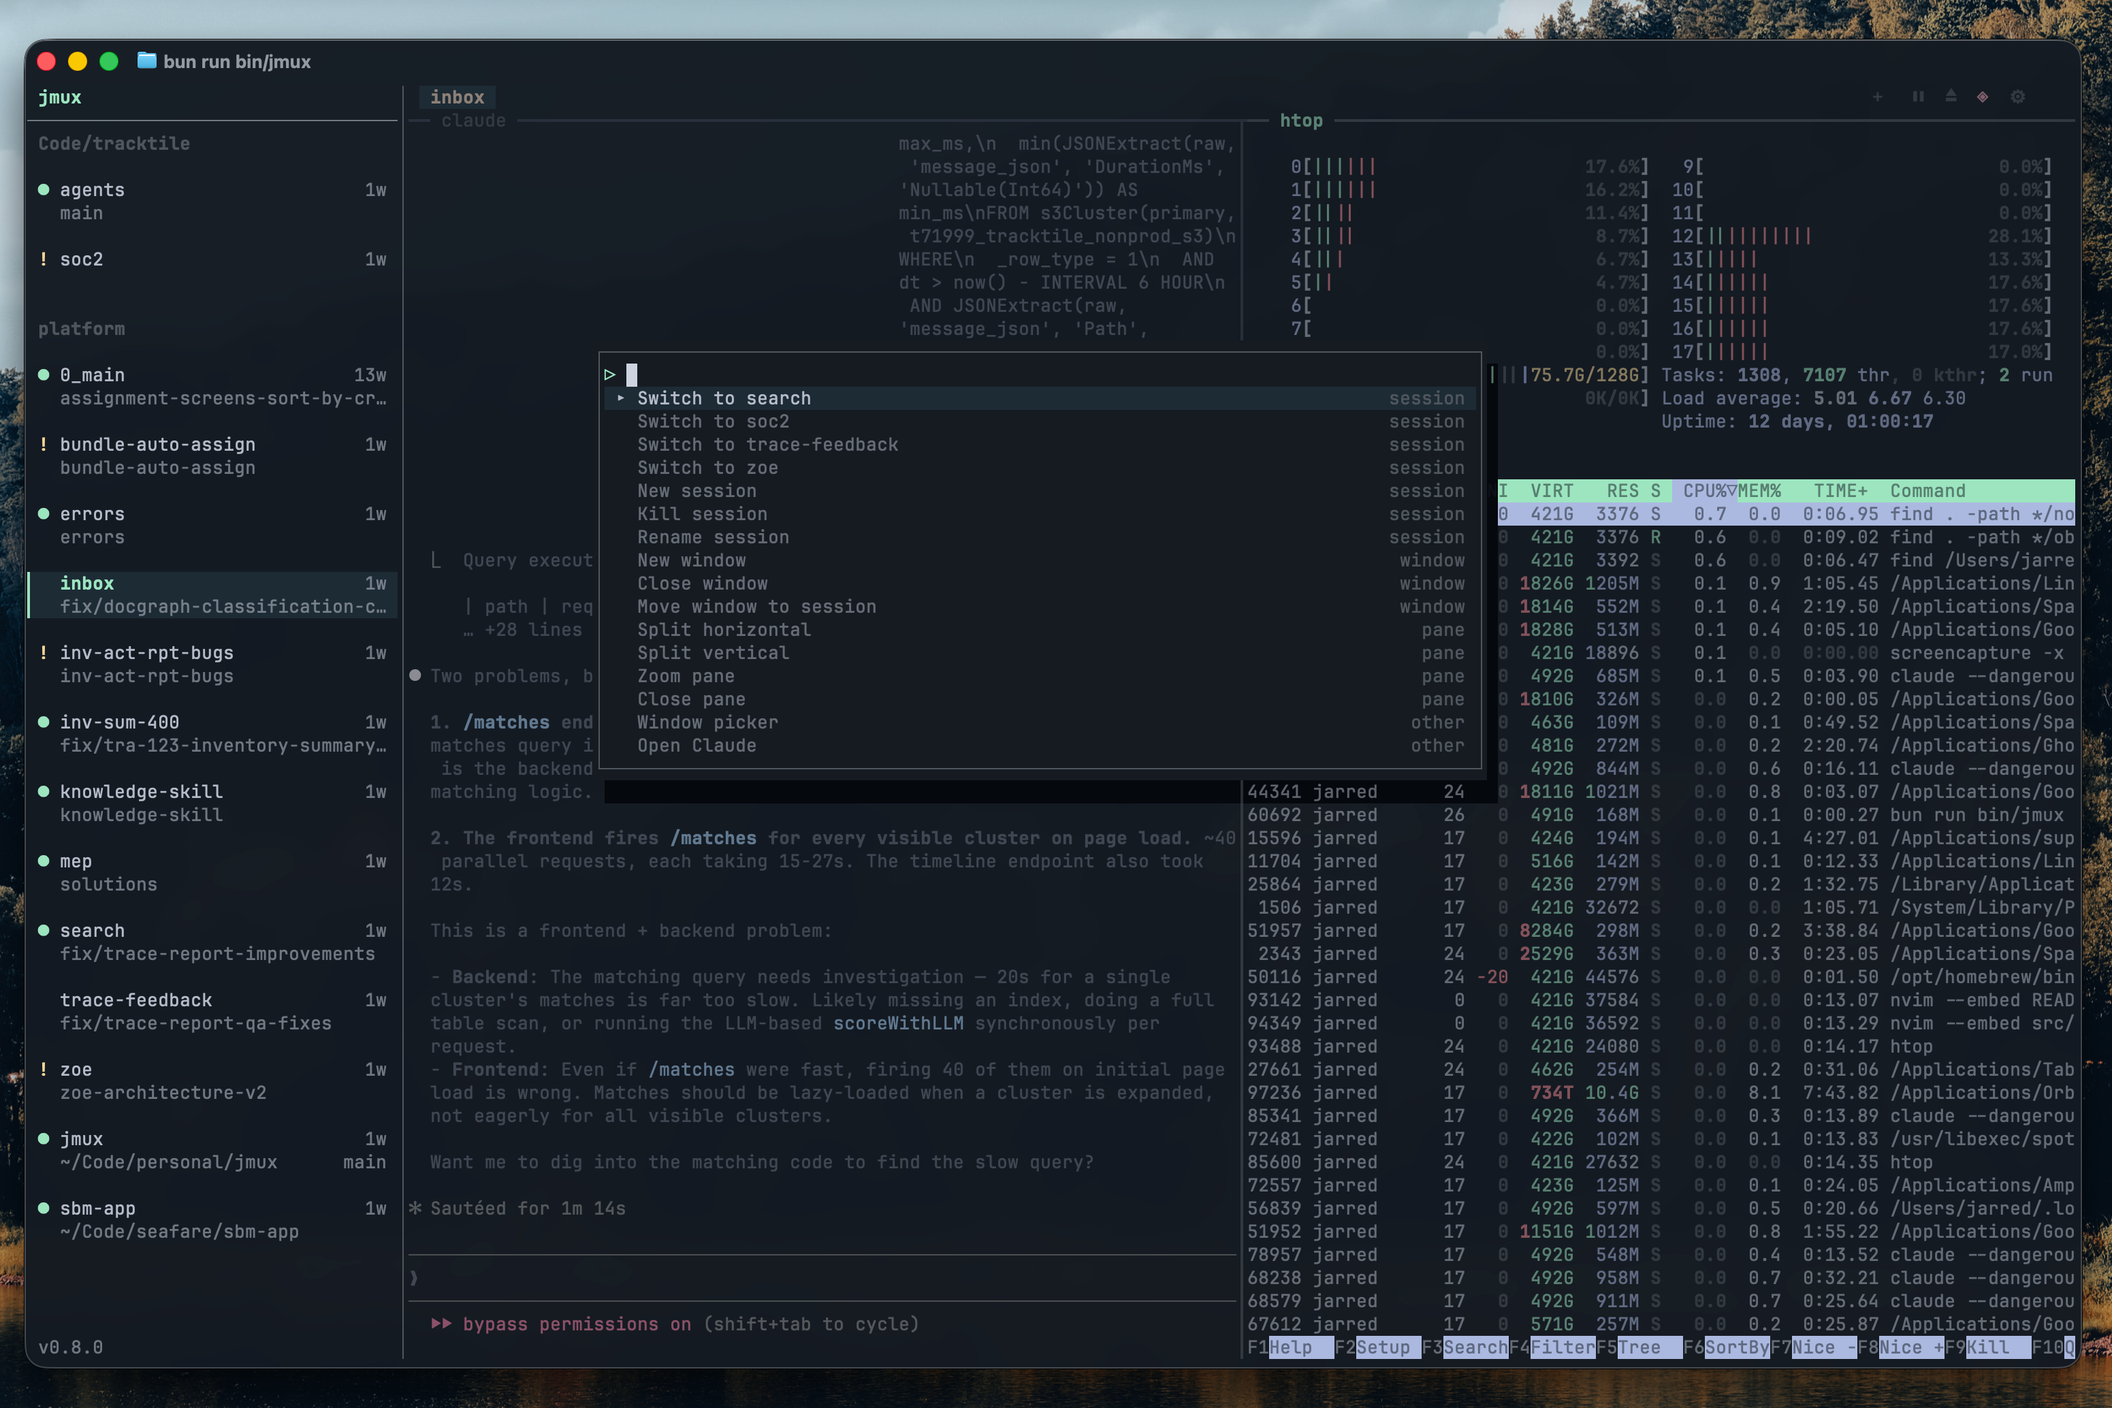
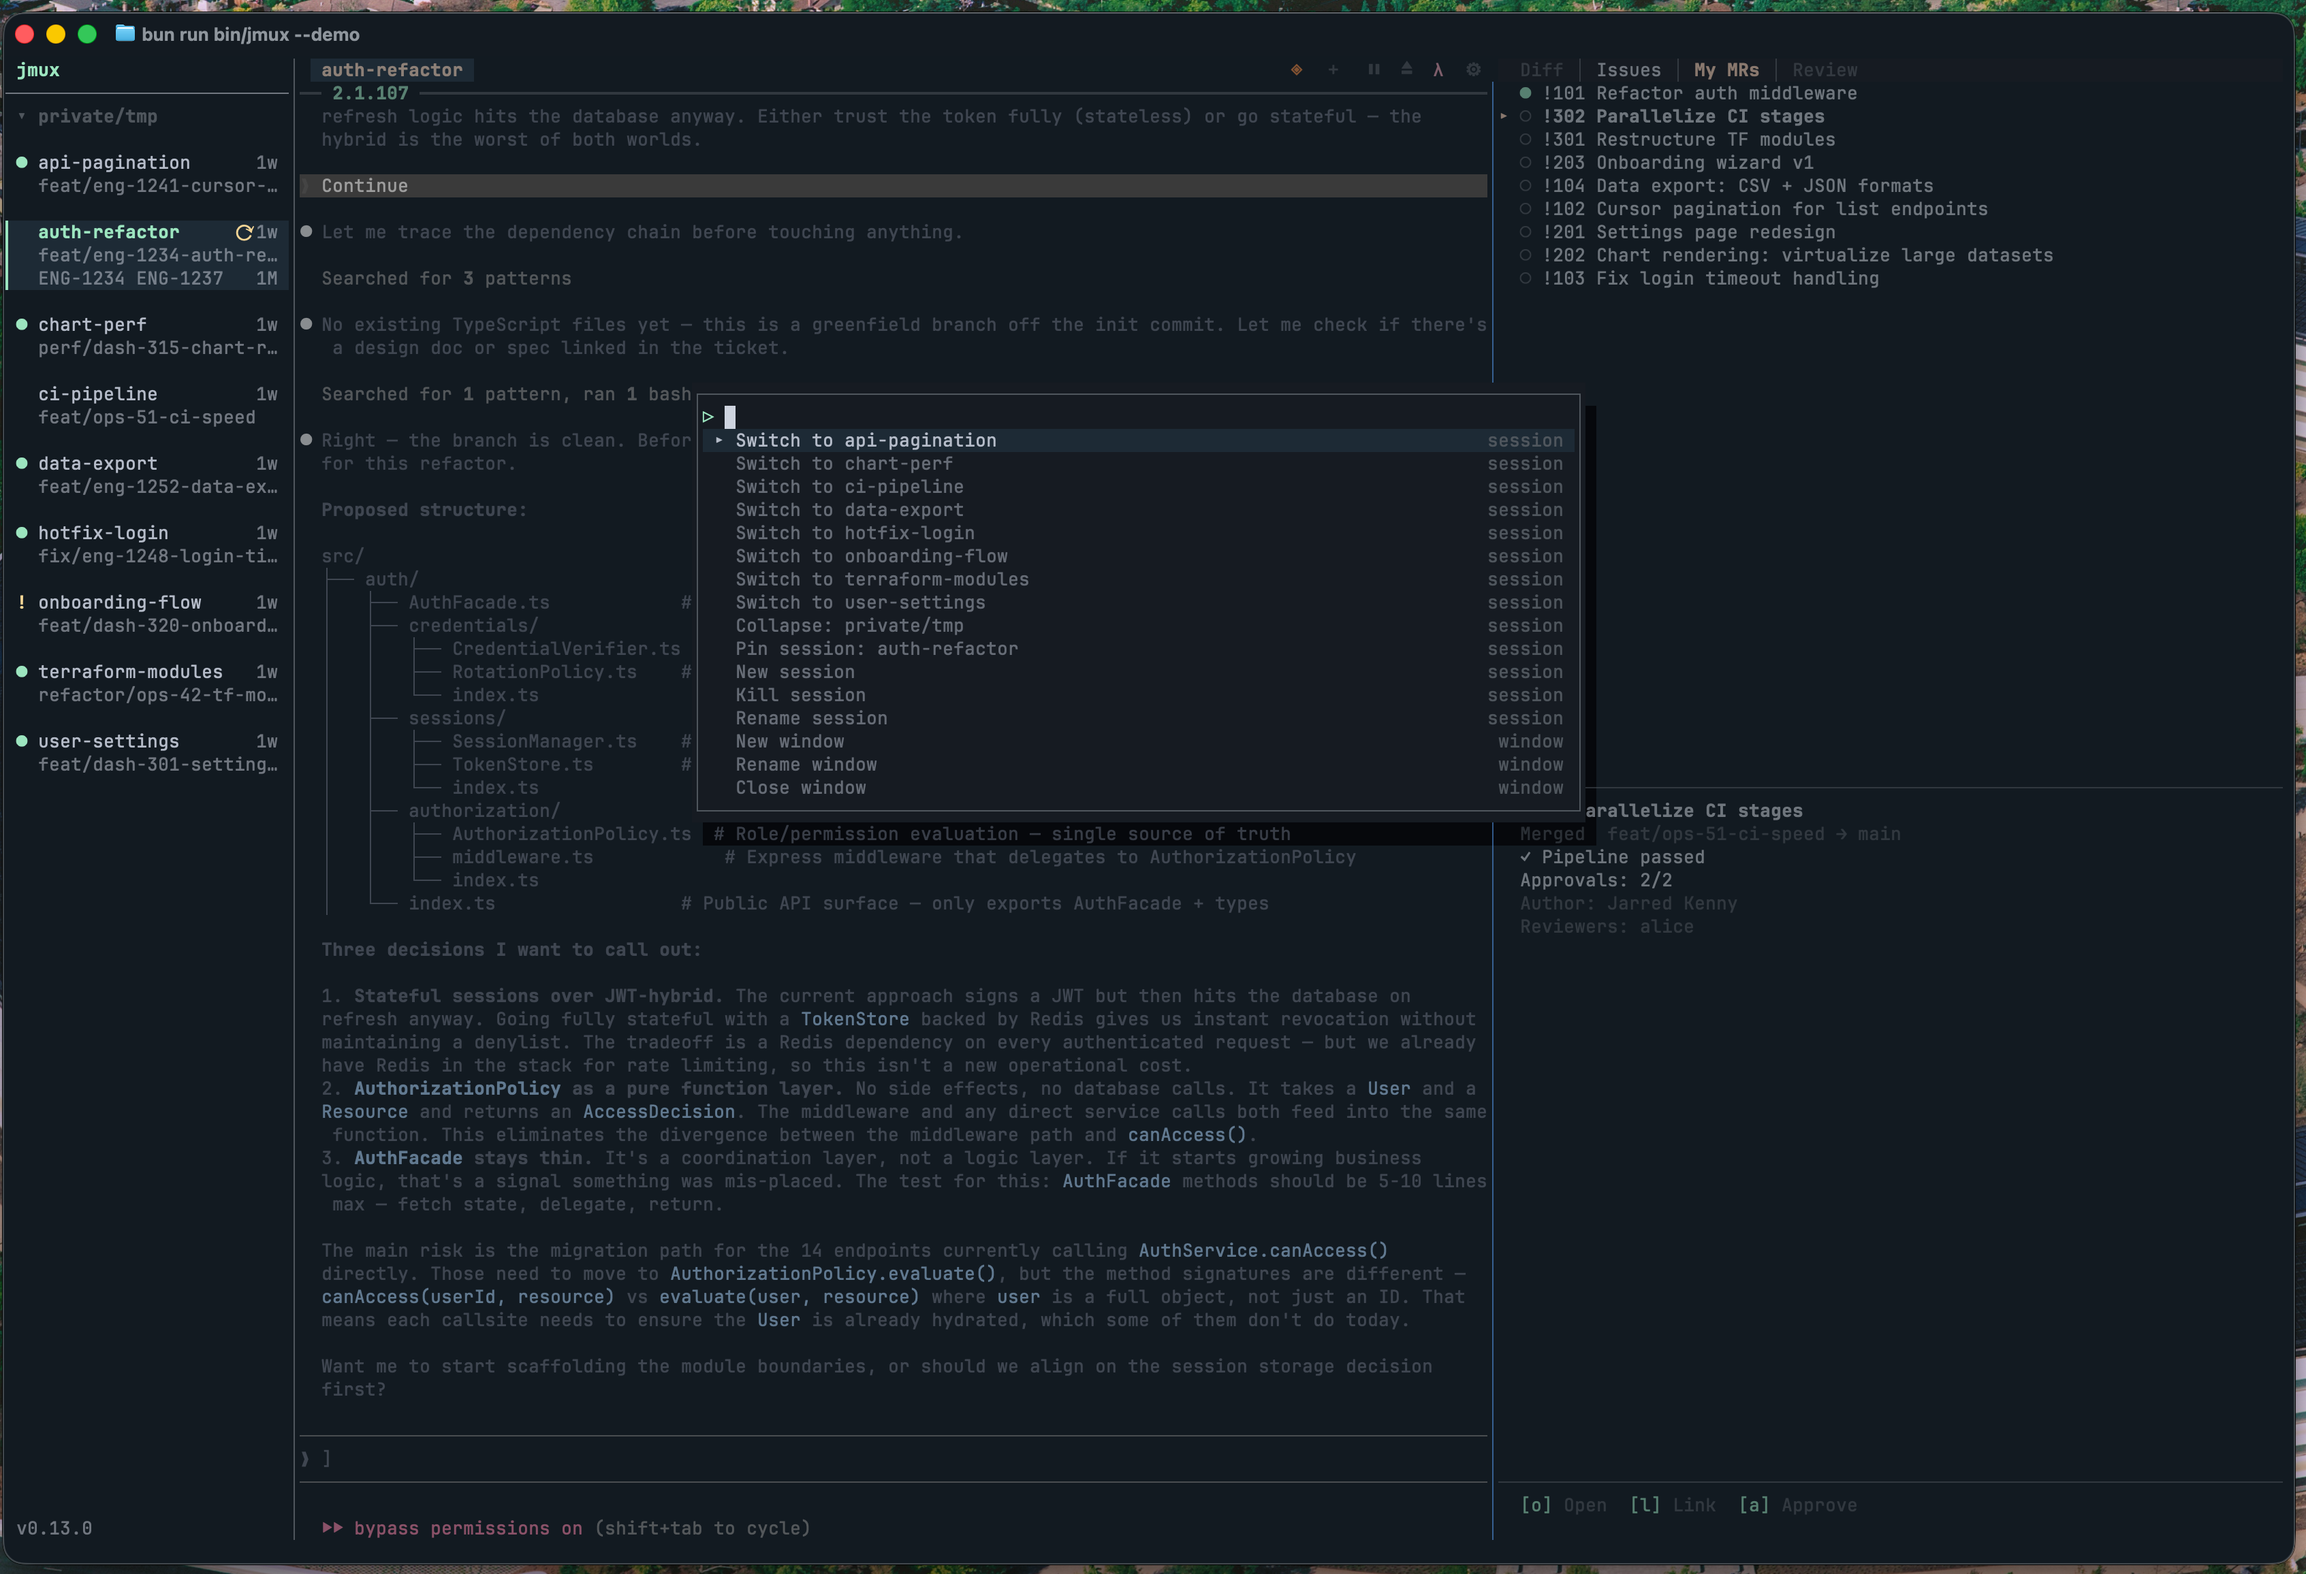
update screenshots for demo mode, add Linear/GitLab screenshots
Replace command palette screenshot with demo mode version showing
info panel. Replace HTML mockup in issue tracking section with real
screenshots. Add Linear issues and GitLab MRs screenshots to README.
Updated v0.13.0 release notes with integration screenshots.

Changed region(s): [[0.0, 0.0, 1.0, 1.0], [0.0, 0.5571, 0.0928, 0.6809], [0.3404, 0.9284, 0.4333, 0.9594]]

diff --git a/site/index.html b/site/index.html
@@ -486,57 +486,8 @@
           <p class="text-xs text-[#52525b]">Currently supports Linear (issues) and GitLab (MRs). More adapters coming.</p>
         </div>
         <div class="md:w-3/5 animate-in">
-          <div class="bg-[#0d1017] border border-border rounded-xl overflow-hidden shadow-2xl shadow-black/50">
-            <div class="flex items-center gap-1.5 px-4 py-2.5 border-b border-border/50">
-              <div class="w-2.5 h-2.5 rounded-full bg-[#ff5f56]"></div>
-              <div class="w-2.5 h-2.5 rounded-full bg-[#ffbd2e]"></div>
-              <div class="w-2.5 h-2.5 rounded-full bg-[#27c93f]"></div>
-              <span class="text-[10px] text-[#52525b] font-mono ml-2">info panel — Issues tab</span>
-            </div>
-            <div class="px-4 py-4 font-mono text-xs leading-relaxed">
-              <div class="text-[#71717a] mb-2"><!-- tab bar --></div>
-              <div class="flex gap-4 mb-3 text-[10px] border-b border-border/30 pb-2">
-                <span class="text-[#52525b]">Diff</span>
-                <span class="text-accent font-bold border-b border-accent pb-1">Issues</span>
-                <span class="text-[#52525b]">MRs</span>
-                <span class="text-[#52525b]">Review</span>
-              </div>
-              <div class="text-[#71717a] mb-1 text-[10px]">&#9662; Platform <span class="text-[#52525b]">(3)</span></div>
-              <div class="text-[#71717a] mb-1 text-[10px] pl-2">&#9662; In Progress <span class="text-[#52525b]">(2)</span></div>
-              <div class="bg-[#1e2a35] rounded px-2 py-1 mb-1 flex items-center gap-2">
-                <span class="text-accent text-[10px]">&#9679;</span>
-                <span class="text-amber-400 text-[10px]">P1</span>
-                <span class="text-white text-[10px]">ENG-1234</span>
-                <span class="text-[#a1a1aa] text-[10px]">Fix auth token refresh</span>
-              </div>
-              <div class="px-2 py-1 mb-1 flex items-center gap-2">
-                <span class="text-[#52525b] text-[10px]">&#9675;</span>
-                <span class="text-orange-400 text-[10px]">P2</span>
-                <span class="text-[#a1a1aa] text-[10px]">ENG-1235</span>
-                <span class="text-[#71717a] text-[10px]">Add rate limiting to API</span>
-              </div>
-              <div class="text-[#71717a] mb-1 text-[10px] pl-2">&#9662; Todo <span class="text-[#52525b]">(1)</span></div>
-              <div class="px-2 py-1 mb-1 flex items-center gap-2">
-                <span class="text-[#52525b] text-[10px]">&#9675;</span>
-                <span class="text-blue-400 text-[10px]">P3</span>
-                <span class="text-[#a1a1aa] text-[10px]">ENG-1240</span>
-                <span class="text-[#71717a] text-[10px]">Migrate user schema</span>
-              </div>
-              <div class="text-[#71717a] mt-2 mb-1 text-[10px]">&#9662; Frontend <span class="text-[#52525b]">(1)</span></div>
-              <div class="px-2 py-1 mb-2 flex items-center gap-2">
-                <span class="text-[#52525b] text-[10px]">&#9675;</span>
-                <span class="text-amber-400 text-[10px]">P1</span>
-                <span class="text-[#a1a1aa] text-[10px]">FE-892</span>
-                <span class="text-[#71717a] text-[10px]">Dashboard loading spinner</span>
-              </div>
-              <div class="border-t border-border/30 pt-2 mt-1 flex gap-3 text-[10px] text-[#52525b]">
-                <span>[o] Open</span>
-                <span>[n] Session</span>
-                <span>[l] Link</span>
-                <span>[s] Status</span>
-              </div>
-            </div>
-          </div>
+          <img src="assets/linear-issues.png" alt="jmux info panel showing Linear issues grouped by team and status with issue detail view" class="w-full rounded-xl border border-border shadow-2xl shadow-black/50 mb-4">
+          <img src="assets/gitlab-mrs.png" alt="jmux info panel showing GitLab merge requests with pipeline status and approvals" class="w-full rounded-xl border border-border shadow-2xl shadow-black/50">
         </div>
       </div>
     </div>

diff --git a/README.md b/README.md
@@ -99,10 +99,14 @@ The sidebar automatically detects worktrees and groups sessions by project. Each
 
 Connect [Linear](https://linear.app) and [GitLab](https://about.gitlab.com) to see your issues, merge requests, and pipeline status directly in jmux. The info panel docks to the right side of the terminal with tabbed views.
 
+![jmux info panel showing Linear issues grouped by team and status](docs/screenshots/linear-issues.png)
+
 **What you get:**
 - **My Issues** — issues assigned to you, grouped by team and status, sorted by priority
 - **My MRs** — merge requests you authored, with pipeline status and approval counts
 - **Review** — MRs awaiting your review
+
+![jmux info panel showing GitLab merge requests with pipeline status](docs/screenshots/gitlab-mrs.png)
 
 Each session automatically links to its branch's MR and associated issues. Select an issue and press `n` to spin up a new worktree session with the agent pre-loaded with the issue context. Press `o` to open anything in your browser, `s` to update an issue's status, `a` to approve an MR — all without leaving the terminal.
 
